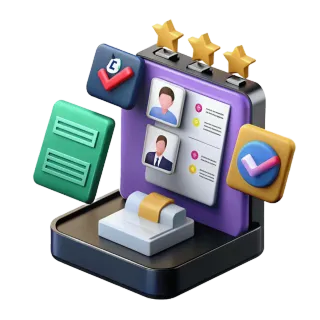
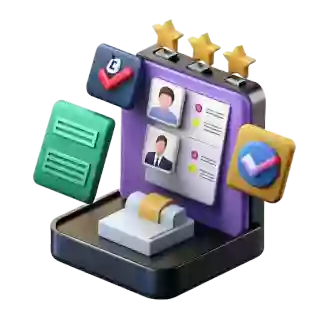
how its work and election page Perfomance optimised

diff --git a/lang/hi/pages/products/election/how-it-works.php b/lang/hi/pages/products/election/how-it-works.php
@@ -10,7 +10,7 @@ return [
         'hero' => [
             'title' => '"3 सरल चरणों में चुनाव तैयार"',
             'description' => 'हमारे सहज प्लेटफ़ॉर्म के साथ ऑनलाइन मतदान की सरलता और दक्षता का अनुभव करें।<br /> पंजीकरण से परिणाम तक, इन प्रमुख चरणों के साथ अपने चुनाव को संचालित करें।',
-            'bg_image' => asset('img/products/election/how-its-work-bg.png'),
+            'bg_image' => asset('img/products/election/how-its-work-bg.webp'),
             'cta' => [
                 'label' => 'शुरू करें',
                 'url' => route('filament.user.auth.register'),

diff --git a/lang/en/pages/products/election/how-it-works.php b/lang/en/pages/products/election/how-it-works.php
@@ -10,7 +10,7 @@ return [
         'hero' => [
             'title' => '"Election Ready in 3 Simple Steps"',
             'description' => 'Experience the ease and efficiency of online voting with our intuitive platform.<br />From registration to result, manage your election seamlessly with these key steps.',
-            'bg_image' => asset('img/products/election/how-its-work-bg.png'),
+            'bg_image' => asset('img/products/election/how-its-work-bg.webp'),
             'cta' => [
                 'label' => 'Get Started',
                 'url' => route('filament.user.auth.register'),

diff --git a/lang/en/pages/products/election/home.php b/lang/en/pages/products/election/home.php
@@ -2,8 +2,8 @@
 
 return [
     'seo' => [
-        'title' => 'Online Election',
-        'description' => 'Online Election',
+        'title' => 'Secure Online Voting with Kudvo - Empower Your Community ',
+        'description' => 'Empower your community with Kudvo\'s seamless and secure online voting platform. Boost participation, get faster results, and ensure enhanced security for your elections with our intuitive 3-step process.',
     ],
     'content' => [
         'hero' => [
